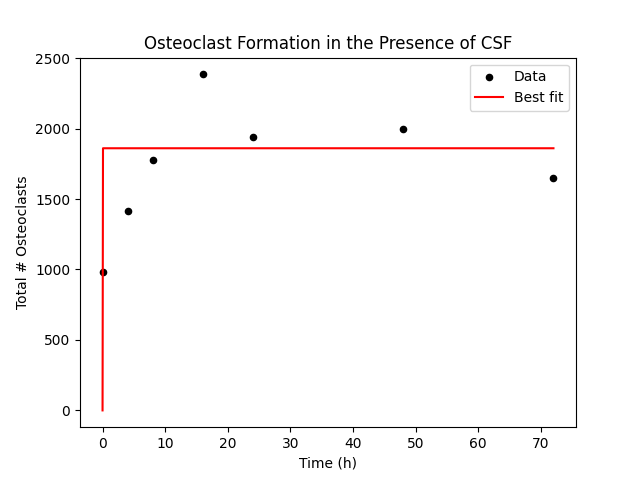
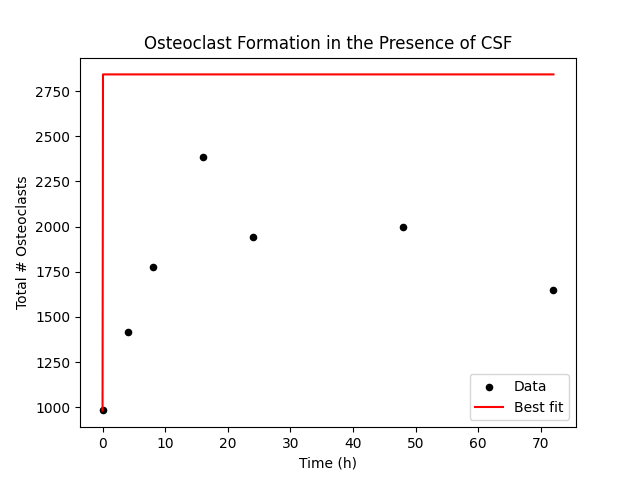
updated O(0)

diff --git a/ssr.py b/ssr.py
@@ -42,9 +42,9 @@ print(f"WITHOUT CSF: GAMMA = {no_gamma} M = {no_M}")
 
 x_smooth = np.linspace(0, 72, 1000)
 
-MC, y_pred_csf = solve_ode_model(csf_gamma, csf_M, 0, x_smooth)
+MC, y_pred_csf = solve_ode_model(csf_gamma, csf_M, 9.824280504908833791e+02, x_smooth)
 
-MA, y_pred_no_csf = solve_ode_model(no_gamma, no_M, 0, x_smooth)
+MA, y_pred_no_csf = solve_ode_model(no_gamma, no_M, 9.824280504908833791e+02, x_smooth)
 
 
 plt.scatter(x, ypres, label="Data", color="black", s=20)